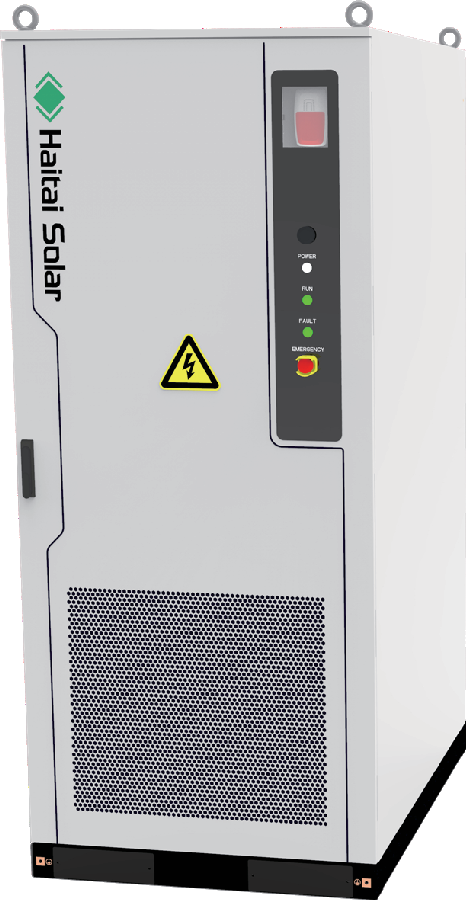
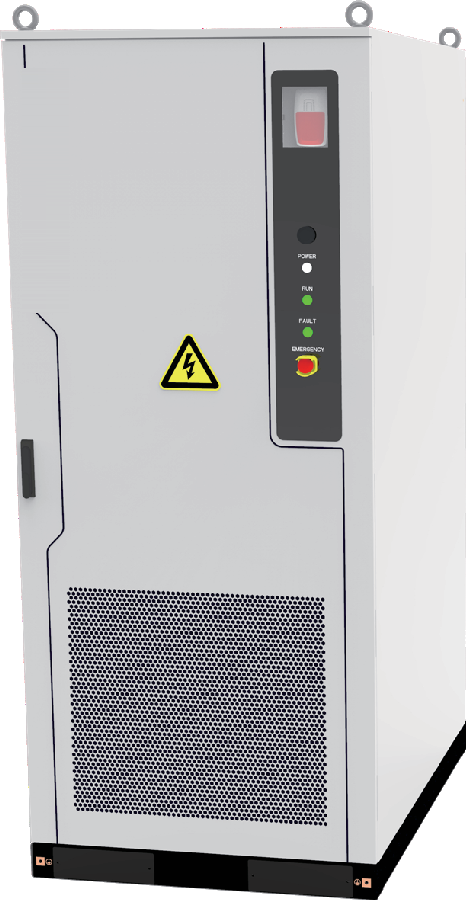
Lead with the hybrid inverter, drop the brand marks, and fix the 4+1 grid
Three changes to the inverter and battery pages.

The category described the wrong product first

  It opened with "Off-grid inverters for standalone systems and hybrid
  inverters…", which reads as though the off-grid type is the main line. The
  ELS series is an on-grid hybrid; off-grid output is one of its capabilities.
  The description now leads with the hybrid and lists off-grid as a feature, in
  all six languages.

The product photos carried the manufacturer's brand marks

  Each image showed the maker's logo on the casing. They are removed by
  refilling the marked area from the surrounding surface.

  Finding the marks is done by contrast against the surface rather than by a
  brightness threshold. A threshold was tried first and failed both ways: on the
  white EPEVER casing it missed the lighter grey parts of the wordmark and left
  a smear, and on the grey 1kWh casing it either missed the pale lettering or
  selected the whole face. Taking the most common colour in the search window as
  the surface, and treating anything far from it as the mark, adapts to a white
  casing, a grey casing and a green diamond without being told which it is.

  The refill interpolates along one axis, chosen per region. Flat front panels
  are filled between the pixels left and right of the box, which keeps their
  horizontal seams and panel joints running through. The angled side face of the
  portable unit is filled between the pixels above and below instead, because
[…]

Changed region(s): [[0.03, 0.0622, 0.1502, 0.3422]]

diff --git a/src/lib/i18n.ts b/src/lib/i18n.ts
@@ -327,7 +327,7 @@ const translations: Record<Language, Partial<TranslationKeys>> = {
     solar_panels_title: 'Solarmodule',
     solar_panels_desc: 'Hocheffiziente TopCon- & PERC-monokristalline Module in vier Varianten: Standard, Vollschwarz, flexibel und faltbar — von führenden Herstellern mit bis zu 25%+ Wirkungsgrad.',
     solar_inverters_title: 'Wechselrichter',
-    solar_inverters_desc: 'Inselwechselrichter für netzunabhängige Systeme und Hybridwechselrichter für die Kombination von Solar-, Batterie- und Netzstrom.',
+    solar_inverters_desc: 'Hybridwechselrichter für die Kombination von Solar-, Batterie- und Netzstrom, mit Inselfunktion für netzunabhängige Systeme.',
     solar_storage_title: 'BESS',
     solar_storage_desc: 'Tragbare Powerstationen, Heim-Energiespeicher und gewerbliche/industrielle Speicherlösungen für zuverlässige Stromversorgung und maximale Eigenverbrauchsoptimierung.',
     solar_mounting_title: 'PV-Montagesysteme',
@@ -508,7 +508,7 @@ const translations: Record<Language, Partial<TranslationKeys>> = {
     solar_panels_title: 'Solar Modules',
     solar_panels_desc: 'High-efficiency TopCon & PERC monocrystalline modules available in four types: standard, all-black, flexible, and foldable — from leading manufacturers with up to 25%+ efficiency.',
     solar_inverters_title: 'Inverters',
-    solar_inverters_desc: 'Off-grid inverters for standalone systems and hybrid inverters that seamlessly combine solar, battery, and grid power sources.',
+    solar_inverters_desc: 'Hybrid inverters that seamlessly combine solar, battery, and grid power sources, with off-grid output for standalone systems.',
     solar_storage_title: 'BESS',
     solar_storage_desc: 'Portable power stations, residential home storage, and commercial & industrial (C&I) energy storage solutions for reliable power supply and maximum self-consumption optimization.',
     solar_mounting_title: 'PV Mounting Systems',
@@ -777,7 +777,7 @@ const translations: Record<Language, Partial<TranslationKeys>> = {
     solar_panels_title: 'Солнечные модули',
     solar_panels_desc: 'Высокоэффективные монокристаллические модули TopCon и PERC четырёх типов: стандартные, полностью чёрные, гибкие и складные — от ведущих производителей с КПД до 25%+.',
     solar_inverters_title: 'Инверторы',
-    solar_inverters_desc: 'Автономные инверторы для изолированных систем и гибридные инверторы для комбинирования солнечной, аккумуляторной и сетевой энергии.',
+    solar_inverters_desc: 'Гибридные инверторы для комбинирования солнечной, аккумуляторной и сетевой энергии, с автономным режимом для изолированных систем.',
     solar_storage_title: 'BESS',
     solar_storage_desc: 'Портативные электростанции, домашние системы хранения и коммерческие/промышленные накопители энергии для надёжного электроснабжения и максимальной оптимизации собственного потребления.',
     solar_mounting_title: 'Системы крепления ФЭМ',
@@ -958,7 +958,7 @@ const translations: Record<Language, Partial<TranslationKeys>> = {
        solar_panels_title: 'Módulos solares',
     solar_panels_desc: 'Módulos monocristalinos TopCon y PERC de alta eficiencia en cuatro tipos: estándar, totalmente negro, flexible y plegable — de fabricantes líderes con hasta 25%+ de eficiencia.',
     solar_inverters_title: 'Inversores',
-    solar_inverters_desc: 'Inversores aislados para sistemas autónomos e inversores híbridos que combinan energía solar, batería y red eléctrica.',
+    solar_inverters_desc: 'Inversores híbridos que combinan energía solar, batería y red eléctrica, con salida aislada para sistemas autónomos.',
     solar_storage_title: 'BESS',
     solar_storage_desc: 'Estaciones de energía portátiles, almacenamiento residencial y soluciones de almacenamiento comercial e industrial (C&I) para suministro fiable y máxima optimización del autoconsumo.',
     solar_mounting_title: 'Sistemas de montaje FV',
@@ -1139,7 +1139,7 @@ const translations: Record<Language, Partial<TranslationKeys>> = {
     solar_panels_title: 'Modules solaires',
     solar_panels_desc: 'Modules monocristallins TopCon et PERC haute efficacité en quatre types : standard, tout noir, flexible et pliable — de fabricants leaders avec jusqu\'\u00e0 25%+ de rendement.',
     solar_inverters_title: 'Onduleurs',
-    solar_inverters_desc: 'Onduleurs autonomes pour systèmes isolés et onduleurs hybrides combinant énergie solaire, batterie et réseau électrique.',
+    solar_inverters_desc: 'Onduleurs hybrides combinant énergie solaire, batterie et réseau électrique, avec sortie autonome pour systèmes isolés.',
     solar_storage_title: 'BESS',
     solar_storage_desc: 'Stations d\'\u00e9nergie portables, stockage résidentiel et solutions de stockage commercial et industriel (C&I) pour une alimentation fiable et une optimisation maximale de l\'autoconsommation.',
     solar_mounting_title: 'Systèmes de montage PV',
@@ -1320,7 +1320,7 @@ const translations: Record<Language, Partial<TranslationKeys>> = {
     solar_panels_title: 'Moduli fotovoltaici',
     solar_panels_desc: 'Moduli monocristallini TopCon e PERC ad alta efficienza in quattro tipi: standard, tutto nero, flessibile e pieghevole — dai principali produttori con efficienza fino al 25%+.',
     solar_inverters_title: 'Inverter',
-    solar_inverters_desc: 'Inverter off-grid per sistemi autonomi e inverter ibridi che combinano energia solare, batteria e rete elettrica.',
+    solar_inverters_desc: 'Inverter ibridi che combinano energia solare, batteria e rete elettrica, con uscita off-grid per sistemi autonomi.',
     solar_storage_title: 'BESS',
     solar_storage_desc: 'Stazioni di energia portatili, accumulo residenziale e soluzioni di accumulo commerciale e industriale (C&I) per un\'alimentazione affidabile e la massima ottimizzazione dell\'autoconsumo.',
     solar_mounting_title: 'Sistemi di montaggio FV',

diff --git a/src/pages/ProductCategory.tsx b/src/pages/ProductCategory.tsx
@@ -182,11 +182,33 @@ function cardsFor(
 
 /* ── Category with a catalogue ─────────────────────────────────── */
 
+/*
+ * Pick the column count so the last row is never a single card.
+ *
+ * Four across is the default. Five products would put one card alone on the
+ * second row (4+1), which reads as a mistake rather than a layout, so five
+ * drops to three and forms 3+2. Counts that already fill their rows stay at
+ * four — switching those to three would only move the orphan, turning a clean
+ * 4 into 3+1.
+ */
+function columnsFor(count: number): 3 | 4 {
+  if (count % 4 !== 1) return 4;
+  if (count % 3 !== 1) return 3;
+  return 4;
+}
+
 function ProductGrid({ cards }: { cards: Card[] }) {
+  // Tailwind only keeps class names it can see as literals, so the two options
+  // are written out rather than composed from the number.
+  const gridClass =
+    columnsFor(cards.length) === 3
+      ? 'grid sm:grid-cols-2 lg:grid-cols-3 gap-6'
+      : 'grid sm:grid-cols-2 lg:grid-cols-4 gap-6';
+
   return (
     <section className="pb-8">
       <div className="container">
-        <div className="grid sm:grid-cols-2 lg:grid-cols-4 gap-6">
+        <div className={gridClass}>
           {cards.map((c, i) => (
             <motion.div
               key={c.key}
